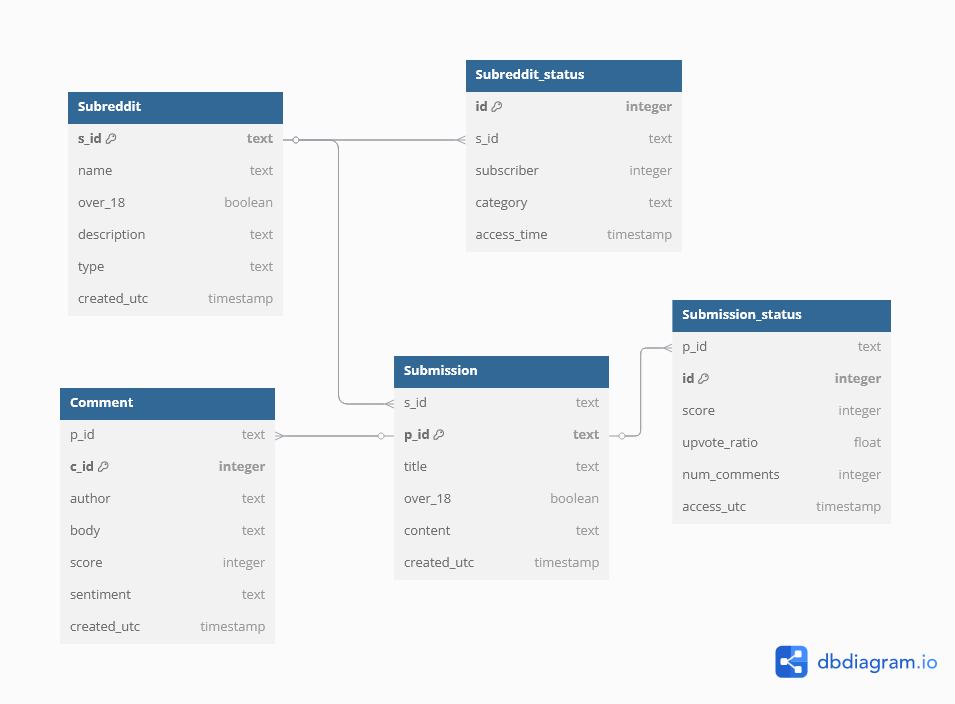
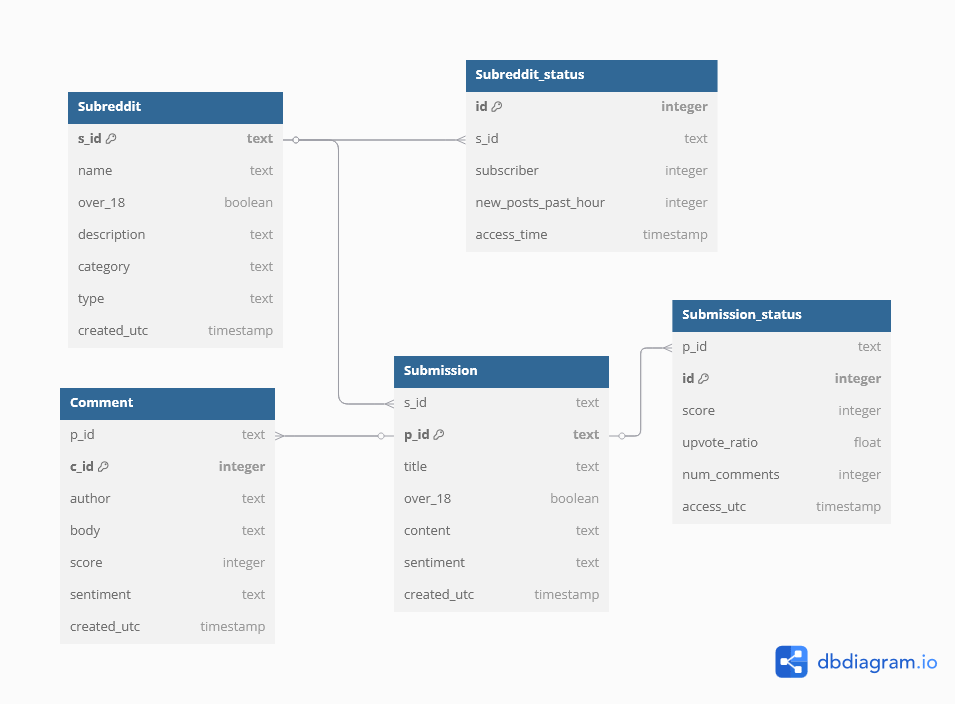
update repo

diff --git a/backend/api/reddit.py b/backend/api/reddit.py
@@ -44,27 +44,41 @@ class Reddit():
                     subscribers = sub.subscribers
                     new_posts = 0
                     new_posts_id = []
-                    for submission in sub.new(limit=SUBMISSION_PER_SUBREDDIT): 
-                        utcPostTime = submission.created
-                        if(access_time - utcPostTime < 1800):
-                            new_posts = new_posts + 1
-                            new_posts_id.append(submission.id)
-                        else:
-                            break
+                    fetch_submission_failed = True
+                    retry_new = 0
+                    while fetch_submission_failed and retry_new < MAX_RETRY:
+                        try:
+                            for submission in sub.new(limit=SUBMISSION_PER_SUBREDDIT): 
+                                utcPostTime = submission.created
+                                if(access_time - utcPostTime < 1800):
+                                    new_posts = new_posts + 1
+                                    new_posts_id.append(submission.id)
+                                else:
+                                    break
+                        except prawcore.exceptions.TooManyRequests as e:
+                            print("429 Too Many Requests: Sleeping before retrying...")
+                            time.sleep(60)  # conservative sleep
+                            retry_new += 1 
+                        except:
+                            print("Error occured exiting")
+                    fetch_hot_submission_failed = True
                     hot_posts_id = []
-                    for hot in sub.hot(limit=SUBMISSION_PER_SUBREDDIT//2):
-                        hot_posts_id.append(hot.id)
+                    retry_hot = 0
+                    while fetch_hot_submission_failed and retry_hot < MAX_RETRY:
+                        try:
+                            for hot in sub.hot(limit=SUBMISSION_PER_SUBREDDIT//2):
+                                hot_posts_id.append(hot.id)
+                        except prawcore.exceptions.TooManyRequests as e:
+                            print("429 Too Many Requests: Sleeping before retrying...")
+                            time.sleep(60)  # conservative sleep
+                            retry_hot += 1
+                        except:
+                            print("Error occured exiting")
                     key = str(access_time) + "_" + id
                     submissions.append((key, id, subscribers, new_posts, access_time, new_posts_id, hot_posts_id))
-                    time.sleep(0.5)
-            except prawcore.exceptions.RateLimitExceeded as e:
-                print(f"API Rate Limit exceed, sleeping for {e.sleep_time} seconds")
-                time.sleep(e.sleep_time)
-            except prawcore.exceptions.TooManyRequests as e:
-                print("429 Too Many Requests: Sleeping before retrying...")
-                time.sleep(60)  # conservative sleep
+                    time.sleep(1)
             except:
-                print("Error occured exiting")
+                print("Other error occured. Exiting early")
         return submissions
     
     #Process the posts and then return it
@@ -91,7 +105,17 @@ class Reddit():
                     start = iteration * 100
                     end = min((iteration + 1) * 100, len(posts))
                     iter_posts = posts[start:end]
-                    posts_info = self.reddit.info(fullnames=iter_posts)
+                    post_info_failed = True
+                    retry_post = 0
+                    while post_info_failed and retry_post < MAX_RETRY:
+                        try:
+                            posts_info = self.reddit.info(fullnames=iter_posts)
+                            post_info_failed = False
+                        except prawcore.exceptions.TooManyRequests as e:
+                            print("429 Too Many Requests: Sleeping before retrying...")
+                            time.sleep(60)  # conservative sleep
+                            retry_post += 1
+
                     for idx, sub in enumerate(tqdm(posts_info)):
                         # Entries for the submissions
                         if not sub.selftext.strip():
@@ -101,25 +125,37 @@ class Reddit():
                         submission_key = subreddit_id + "_" + str(idx)
                         status_key = str(access_time) + "_" + submission_key
                         sentiment = self.emotion_model.query([sub.selftext.strip()])[0]
-                        sub.comments.replace_more(limit=5)
-                        for cidx, comment in enumerate(sub.comments.list()[:COMMENT_PER_SUBMISSION]):
-                            # comments for each submissions
-                            comment_sentiment = self.emotion_model.query([sub.selftext.strip()])[0]
-                            comment_key = status_key + "_" + submission_key + str(cidx)
-                            comments.append((submission_key, comment_key, comment.author.name if comment.author else "[deleted]",
-                                comment.body.strip(),
-                                comment.score,
-                                comment_sentiment,
-                                comment.created_utc))
+                        replace_failed = True
+                        retry_replace = 0
+                        while replace_failed and retry_replace < MAX_RETRY:
+                            try:
+                                sub.comments.replace_more(limit=5)
+                                replace_failed = False
+                            except prawcore.exceptions.TooManyRequests as e:
+                                print("429 Too Many Requests: Sleeping before retrying...")
+                                time.sleep(60)  # conservative sleep
+                                retry_replace += 1
+                        fetch_comment_failed = True
+                        retry_comment = 0
+                        while fetch_comment_failed and retry_comment < MAX_RETRY:
+                            try:
+                                for cidx, comment in enumerate(sub.comments.list()[:COMMENT_PER_SUBMISSION]):
+                                    # comments for each submissions
+                                    comment_sentiment = self.emotion_model.query([comment.body.strip()])[0]
+                                    comment_key = status_key + "_" + submission_key + str(cidx)
+                                    comments.append((submission_key, comment_key, comment.author.name if comment.author else "[deleted]",
+                                        comment.body.strip(),
+                                        comment.score,
+                                        comment_sentiment,
+                                        comment.created_utc))
+                                fetch_comment_failed = False
+                            except prawcore.exceptions.TooManyRequests as e:
+                                print("429 Too Many Requests: Sleeping before retrying...")
+                                time.sleep(60)  # conservative sleep
+                                retry_comment += 1
                         submissions.append((submission_key, subreddit_id, sub.name, sub.over_18, sub.selftext.strip(), sentiment, sub.created_utc))
                         submission_status.append((submission_key, status_key, sub.score, sub.upvote_ratio, sub.num_comments, access_time))
                     time.sleep(2)
-            except prawcore.exceptions.RateLimitExceeded as e:
-                print(f"API Rate Limit exceed, sleeping for {e.sleep_time} seconds")
-                time.sleep(e.sleep_time)
-            except prawcore.exceptions.TooManyRequests as e:
-                print("429 Too Many Requests: Sleeping before retrying...")
-                time.sleep(60)  # conservative sleep
             except:
                 print("Other error occured. Exiting early")
         return submissions, submission_status, comments

diff --git a/backend/encoding.py b/backend/encoding.py
@@ -1,0 +1,52 @@
+from transformers import AutoTokenizer, AutoModel
+import torch
+import torch.nn.functional as F
+
+def mean_pooling(model_output, attention_mask="other"):
+    token_embeddings = model_output[0]
+    input_mask_expanded = attention_mask.unsqueeze(-1).expand(token_embeddings.size()).float()
+    return torch.sum(token_embeddings * input_mask_expanded, 1) / torch.clamp(input_mask_expanded.sum(1), min=1e-9)
+
+
+class TokenModel():
+    def __init__(self, type_info):
+        self.tokenizer = AutoTokenizer.from_pretrained('sentence-transformers/all-MiniLM-L6-v2')
+        self.model = AutoModel.from_pretrained('sentence-transformers/all-MiniLM-L6-v2')
+        self.type_info = type_info
+        if type_info == "emotion":
+            self.category = [
+                "Happy", "Sad", "Angry", "Afraid", "Disgusted",
+                "Surprised", "Calm", "Confused", "Excited", "Bored",
+                "Loving", "Lonely"
+            ]
+        else:
+            self.category = ["News & Politics", "Technology & Science", "Gaming",
+                        "Entertainment & Media", "Sports & Athletics",
+                        "Lifestyle & Hobbies", "Health & Wellness", 
+                        "Education & Learning", "Business & Finance", ""
+                        "Art & Design", "Travel & Culture", "Community & Support"]
+        self.classes = self.__init_category(self.category)
+
+    def __init_category(self, category):
+        if self.type_info == "emotion":
+            categories = self.tokenizer([f"The emtoion in the text is {item}" for item in category], padding=True, truncation=True, return_tensors='pt')
+        else:
+            categories = self.tokenizer([f"The genre of the text is {item}" for item in category], padding=True, truncation=True, return_tensors='pt')
+        with torch.no_grad():
+            model_output = self.model(**categories)
+            return F.normalize(mean_pooling(model_output, categories['attention_mask']),dim=1)
+
+    def query(self, inputs: list):
+        encoded_input = self.tokenizer(inputs, padding=True, truncation=True, return_tensors='pt')
+        with torch.no_grad():
+            model_output = self.model(**encoded_input)
+            processed_output = F.normalize(mean_pooling(model_output, encoded_input['attention_mask']), dim=1)
+            similarity = processed_output @ self.classes.T
+            classesMax = torch.argmax(similarity, dim = 1)
+            return [self.category[idx] for idx in classesMax.numpy().tolist()]
+        
+if __name__ == "__main__":
+    model = TokenModel()
+    sentences = ['Come to play genshin impact right now', 'Iran have attacked pearl harbor last week']
+    output = model.query(sentences)
+    print(output)

diff --git a/README.md b/README.md
@@ -1,2 +1,5 @@
 # SocialSignal
 Reddit Trends Dashboard Using Power BI
+
+## Database Schema for Reddit
+![Reddit](imgs/Reddit_Schema.png)
